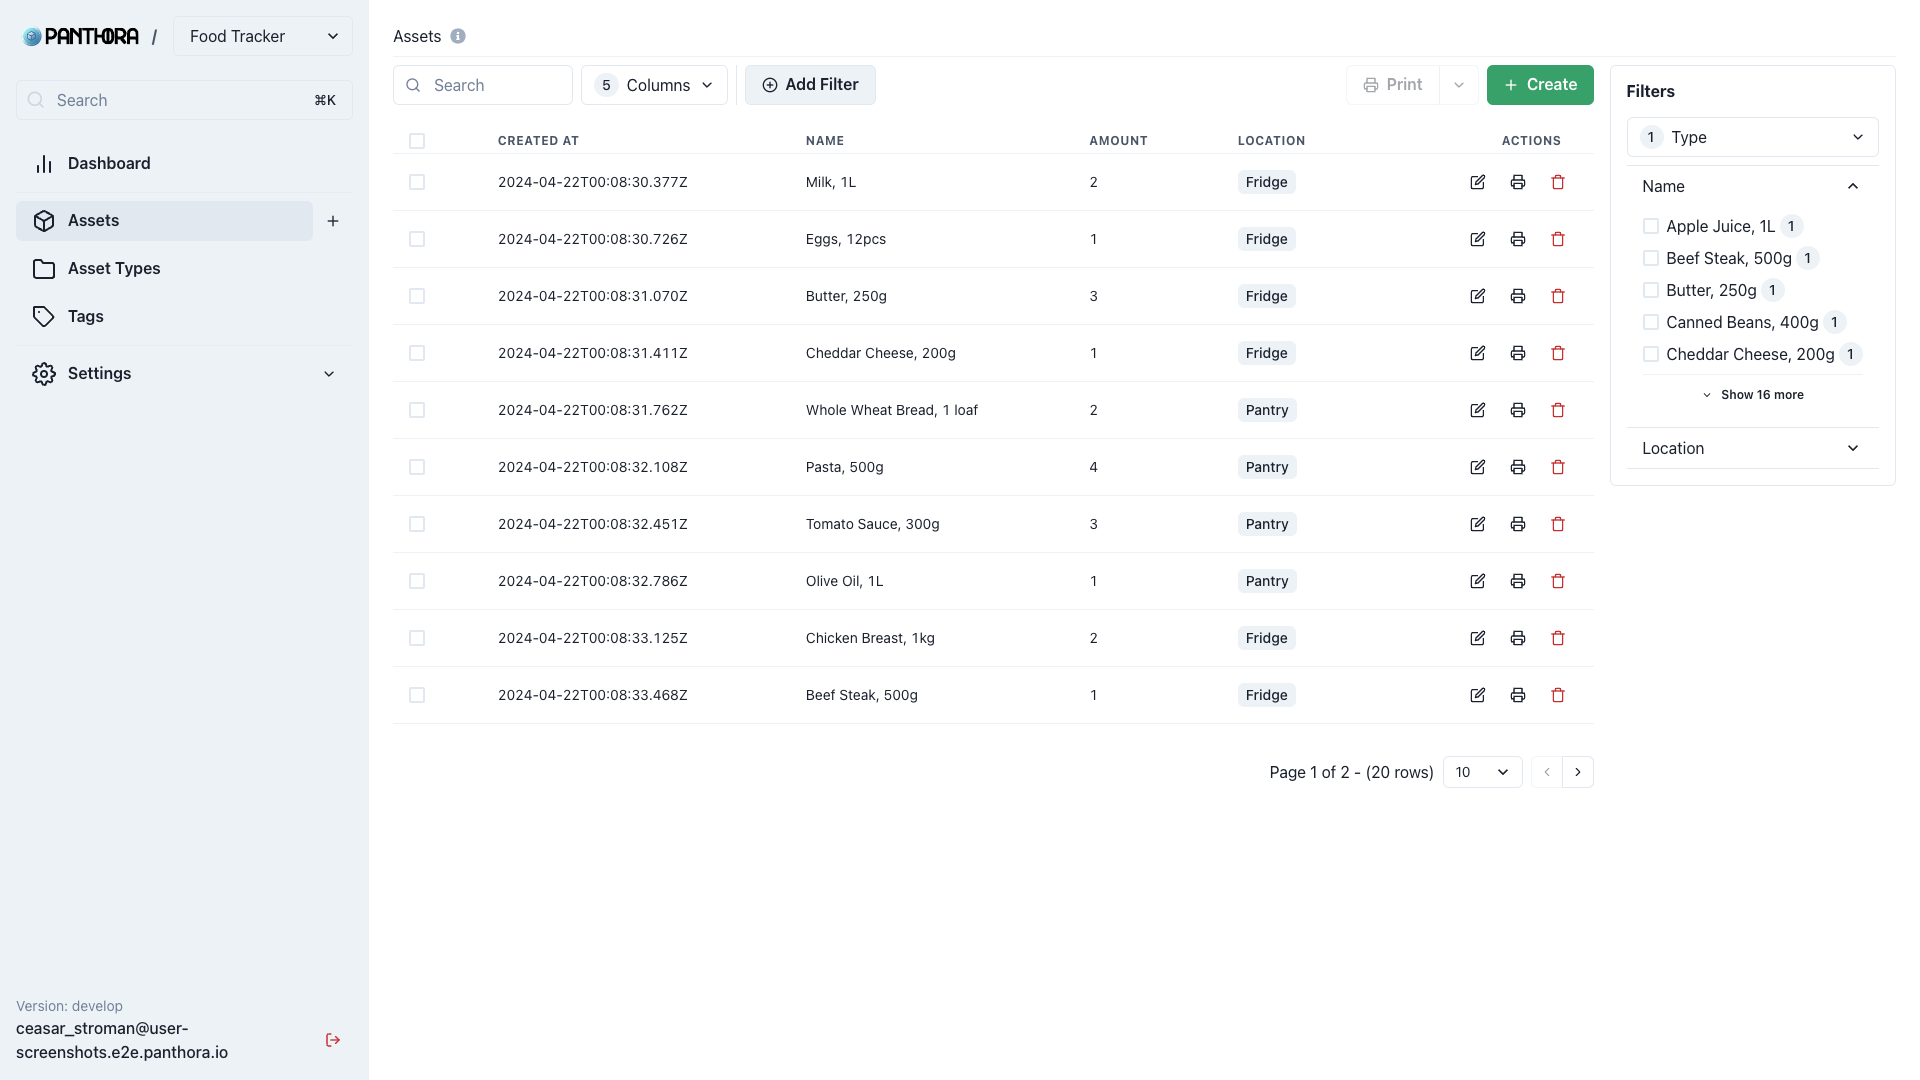
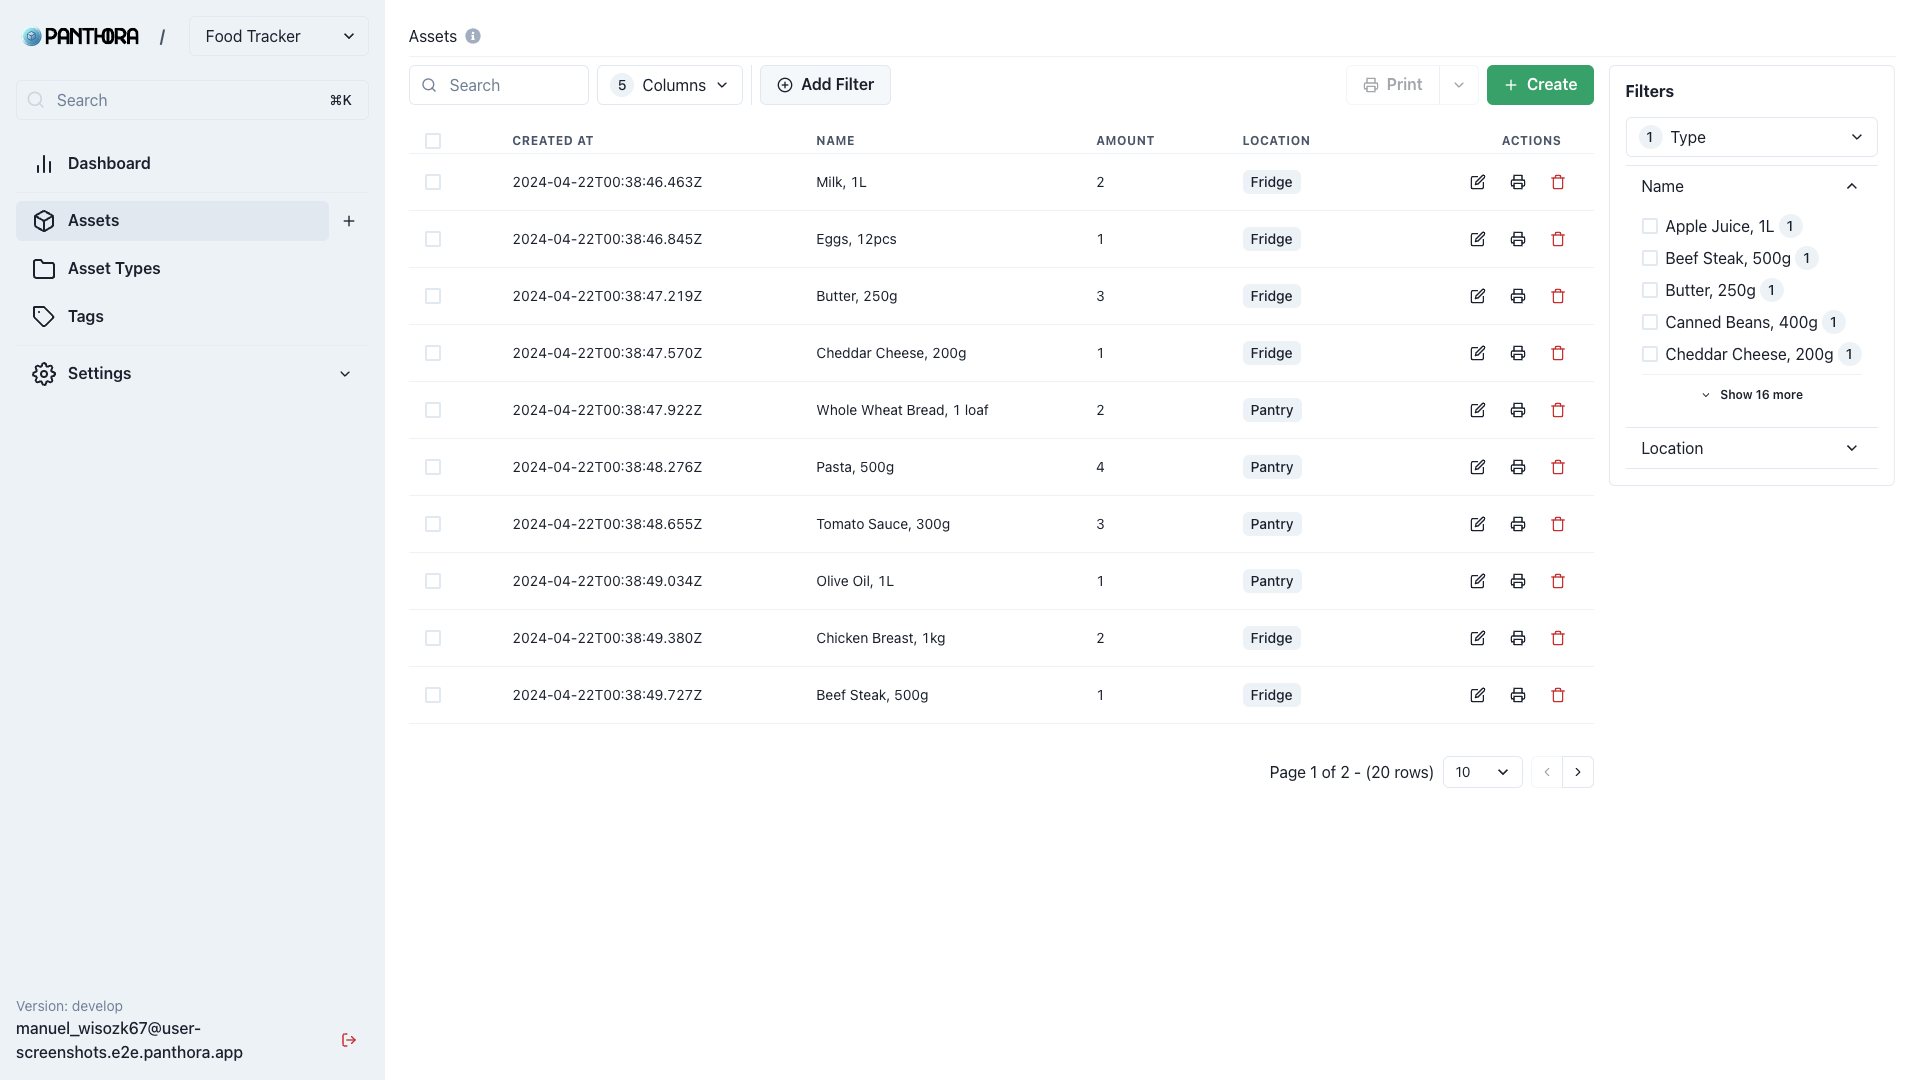
Fix domain in screenshots (#149)

diff --git a/packages/app/tests/e2e/registerLogin.spec.ts b/packages/app/tests/e2e/registerLogin.spec.ts
@@ -32,7 +32,7 @@ test.describe("Register / Login", () => {
 
   test.describe("Registration Flow", () => {
     const email =
-      `${faker.person.firstName()}.${faker.person.lastName()}@panthora.io`.toLowerCase();
+      `${faker.person.firstName()}.${faker.person.lastName()}@panthora.app`.toLowerCase();
     const password = faker.internet.password();
 
     test.describe.configure({ mode: "serial" });

diff --git a/packages/app/tests/utils/constants.ts b/packages/app/tests/utils/constants.ts
@@ -22,7 +22,7 @@ const baseUser: (
   type
 ) => ({
   email: faker.internet
-    .email({ provider: `${type}.e2e.panthora.io` })
+    .email({ provider: `${type}.e2e.panthora.app` })
     .toLowerCase(),
   storageState: `./test-results/storage/${type}.state.json`,
   password: "e2eTestPassword!",
